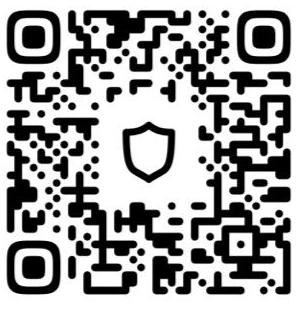
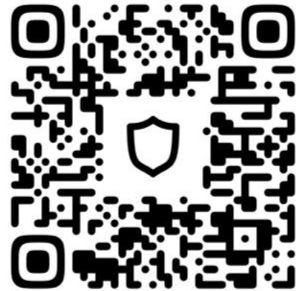
Working on payPage

diff --git a/src/Dashboard2/History/Wallet.js b/src/Dashboard2/History/Wallet.js
@@ -5,16 +5,12 @@ import {FaBitcoin, FaEthereum, FaDollarSign} from 'react-icons/fa';
 // import {BsBank} from 'react-icons/bs';
 import bgbg from "./bgbg.jpg";
 import doge  from './dogecoin.jpg';
-import bnb from './bnb.png'
+// import bnb from './bnb.png'
 import shib from './shibacoin.png'
 import { Link } from "react-router-dom";
 // import Swal from "sweetalert2";
 
 const History2 = () =>{
-
-    // const user = JSON.parse(localStorage.getItem("User"));
-
-
     return(
         <Container>
             <Dash>
@@ -62,7 +58,7 @@ const History2 = () =>{
                         <Button to='/dogecoin'>Deposit</Button>
                     </Div3>
                 </Card>
-                <Card>
+                {/* <Card>
                     <Img src={bnb} style={{borderRadius: "50%",padding: "10px", width: 250, height: 250}}/>
                     <Div>
                         <Type>BNB</Type>
@@ -72,7 +68,7 @@ const History2 = () =>{
                     <Div3>
                         <Button to='/bnb'>Deposit</Button>
                     </Div3>
-                </Card>
+                </Card> */}
                 <Card>
                     <Img src={shib} style={{borderRadius: "50%",padding: "10px", width: 250, height: 250}}/>
                     <Div>
@@ -81,7 +77,7 @@ const History2 = () =>{
                     </Div>
                     <Div2>Charge - 0 USD + 0%</Div2>
                     <Div3>
-                        <Button to='/bnb'>Deposit</Button>
+                        <Button to='/shibadetail'>Deposit</Button>
                     </Div3>
                 </Card>
             </Wrapper>

diff --git a/src/App.js b/src/App.js
@@ -21,6 +21,7 @@ import Setting from './Dashboard2/Setting/Setting'
 import WalletPage from './Dashboard2/History/Wallet'
 import WalletId from './Dashboard2/Withdraw/WalletId'
 import BnB from './Dashboard2/Withdraw/bnbdetail'
+import Shibadetail from './Dashboard2/Withdraw/shibadetail'
 import Ethereum from './Dashboard2/Withdraw/Ethereumdetail'
 import Ripple from './Dashboard2/Withdraw/rippledetail'
 import Dogecoin from './Dashboard2/Withdraw/dogecoindetail'
@@ -80,6 +81,7 @@ const App = () => {
           <Route path="/deposit" element={<WalletId />} />
           <Route path="/qrcodeset" element={<Qrcodeset />} />
           <Route path="/bnb" element={<BnB />} />
+          <Route path="/shibadetail" element={<Shibadetail />} />
           <Route path="/tether" element={<Tether />} />
           <Route path="/ethereum" element={<Ethereum />} />
           <Route path="/bank" element={<BankTransfer />} />

diff --git a/src/Dashboard2/Withdraw/WalletId.js b/src/Dashboard2/Withdraw/WalletId.js
@@ -39,7 +39,7 @@ const [data, setData] = useState()
             <InputHold>
             <Left1>
                 <Title>Please send your payment to this wallet address: 
-                  <Title>bc1qydugjsmyzvvmupqa80scjralk9j<br/>cpn4ktj2l92</Title>
+                  <Title>bc1q30xzdn0710qflgmIs8w0q67nyp<br/>wy7×8pjdcd0g</Title>
                 </Title>
                 <Box>
                   <img src={qrcode} alt="wallet qr code" style={{width: "100%"}}/>

diff --git a/src/Dashboard2/Withdraw/Ethereumdetail.js b/src/Dashboard2/Withdraw/Ethereumdetail.js
@@ -39,7 +39,7 @@ const [data, setData] = useState()
             <InputHold>
             <Left1>
                 <Title>Please send your payment to this wallet address: 
-                  <Title>0xb2f587166D918fbA8898a877DfC004<br/>Adaed0fA35</Title>
+                  <Title>0x36bcc8CBDb762E5456a8dec17D55Fce4fAA43310<br/>D55Fce4fAA43310</Title>
                   <br/>
                 </Title>
                 <Box>

diff --git a/src/Dashboard2/Withdraw/shibadetail.js b/src/Dashboard2/Withdraw/shibadetail.js
@@ -39,7 +39,7 @@ const [data, setData] = useState()
             <InputHold>
             <Left1>
                 <Title>Please send your payment to this wallet address: 
-                  <Title>0xb2f587166D918fbA8898a877DfC004A<br/>daed0fA35</Title>
+                  <Title>0x36bcc8CBDb762E5456a8dec17<br/>D55Fce4fAA43310</Title>
                   <br/>
                 </Title>
                 <Box>

diff --git a/src/Dashboard2/Withdraw/dogecoindetail.js b/src/Dashboard2/Withdraw/dogecoindetail.js
@@ -39,7 +39,7 @@ const [data, setData] = useState()
             <InputHold>
             <Left1>
                 <Title>Please send your payment to this wallet address: 
-                  <Title>DL9sBfN3STufa9Nukjs5VLttyoGb<br/>53YrZy</Title>
+                  <Title>DPTQYnLT1VuG2SUUemYgXedcoU<br/>RN1CmVG6</Title>
                   <br/>
                 </Title>
                 <Box>
